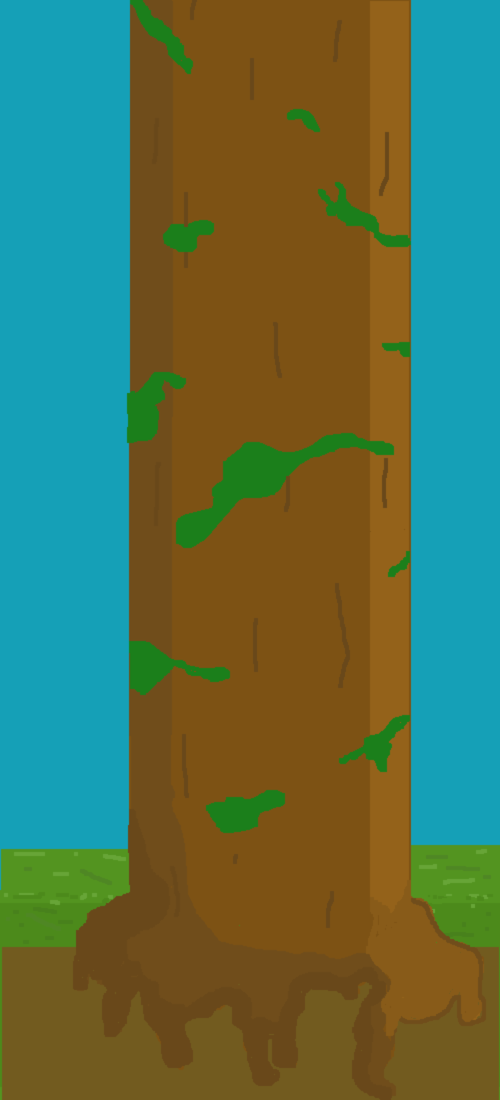
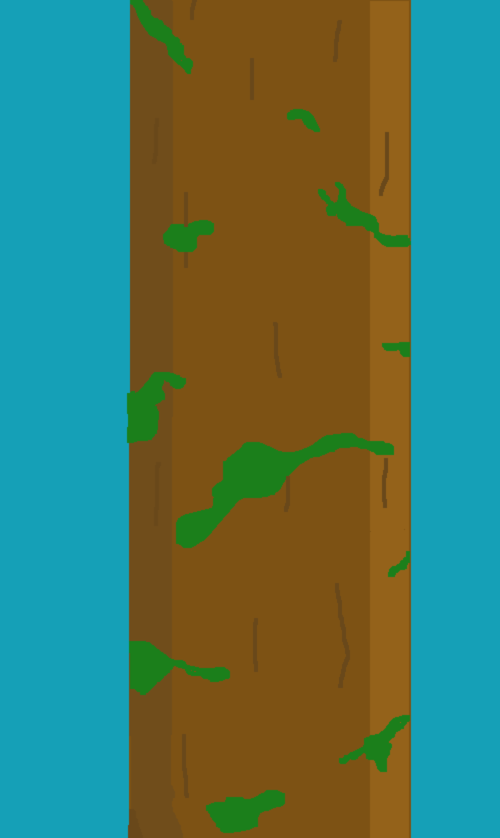
Añadí al niño, el suelo y algunas ramas. También rehice el movimiento

diff --git a/menuplay.py b/menuplay.py
@@ -1,110 +1,126 @@
 import pygame
 import constantes
-from personaje import Personaje
 
 def play():
-    while True:
+    # Inicializa Pygame
+    pygame.init()
 
-        #Declaro la variable pantalla con sus respectivos valores
-        pantalla = pygame.display.set_mode((constantes.anchoVentana, constantes.altoVentana))
+    # Configura la pantalla
+    pantalla = pygame.display.set_mode((constantes.anchoVentana, constantes.altoVentana))
+    pygame.display.set_caption('Hungry Jump')
 
-        #Declaro e inserto el icono
-        icono = pygame.image.load("assets/images/items/banana0.png")
-        pygame.display.set_icon(icono)
+    # Carga imágenes
+    icono = pygame.image.load("assets/images/items/banana0.png")
+    pygame.display.set_icon(icono)
+    fondo = pygame.image.load("assets/images/fondos/lvl 1.png").convert()
+    sueloPasto = pygame.image.load("assets/images/fondos/sueloPasto.png")
+    ramaD = pygame.image.load("assets/images/fondos/ramaDer.png")
+    ramaI = pygame.image.load("assets/images/fondos/ramaIzq.png")
 
-        #Declaro e inserto el fondo
-        fondo = pygame.image.load("assets/images/fondos/lvl 1.png").convert()
-        y = 0
+    # Redimensionar imágenes del personaje
+    ancho_personaje = 250
+    alto_personaje = 250  # Ajusta según sea necesario
+
+    quieto = pygame.image.load("assets/images/personajes/niño0.png")
+    quieto = pygame.transform.scale(quieto, (ancho_personaje, alto_personaje))
+
+    saltaDer = [pygame.image.load('assets/images/personajes/niño1.png') for _ in range(4)]
+    saltaDer = [pygame.transform.scale(img, (ancho_personaje, alto_personaje)) for img in saltaDer]
+
+    saltaIzq = [pygame.image.load('assets/images/personajes/niño1i.png') for _ in range(4)]
+    saltaIzq = [pygame.transform.scale(img, (ancho_personaje, alto_personaje)) for img in saltaIzq]
+
+    # Definir las variables de posicion
+    px = 0  # Posicion en el eje x
+    py = 470  # Posicion en el eje y
+
+    velocidad = 7
+    reloj = pygame.time.Clock()
+
+    # Variables de salto
+    salto = True
+    cuentaSalto = 20
+
+    # Variables de dirección
+    izquierda = False
+    derecha = False
+
+    # Pasos
+    cuentaPasos = 0
+
+    def recarga_pantalla():
+        nonlocal cuentaPasos, izquierda, derecha, px, py, saltaIzq, saltaDer, quieto
+
+        # Contador de pasos
+        cuentaPasos = (cuentaPasos + 1) % 4
+
+        # Movimiento a la izquierda
+        if izquierda:
+            pantalla.blit(saltaIzq[cuentaPasos], (int(px), int(py)))
+
+        # Movimiento a la derecha
+        elif derecha:
+            pantalla.blit(saltaDer[cuentaPasos], (int(px), int(py)))
+
+        # Personaje quieto
+        elif salto:
+            pantalla.blit(quieto, (int(px), int(py)))
+        else:
+            pantalla.blit(quieto, (int(px), int(py)))
+
+    run = True
+    y = 0
+
+    while run:
+        # Dibujar el fondo
+        yRelativa = y % fondo.get_rect().height
+        pantalla.blit(fondo, (0, yRelativa - fondo.get_rect().height))
+        if yRelativa < constantes.altoVentana:
+            pantalla.blit(fondo, (0, yRelativa))
+        y += 1
+
+        # Dibujar suelo y ramas
+        pantalla.blit(sueloPasto, (0, 360))
+        pantalla.blit(ramaD, (310, 430))
+        pantalla.blit(ramaI, (-10, 320))
+
+        # Verificar los eventos
+        for event in pygame.event.get():
+            if event.type == pygame.QUIT:
+                run = False
+
+        # Manejo de teclas
+        keys = pygame.key.get_pressed()
+
+        # Tecla LEFT - Movimiento a la izquierda
+        if keys[pygame.K_LEFT] and px > -70:  # Permite moverse más allá del borde izquierdo
+            px -= velocidad
+            izquierda = True
+            derecha = False
+
+        # Tecla RIGHT - Movimiento a la derecha
+        elif keys[pygame.K_RIGHT] and px < 310:  # Permite moverse más allá del borde derecho
+            px += velocidad
+            izquierda = False
+            derecha = True
+
+        # Personaje quieto
+        else:
+            izquierda = False
+            derecha = False
 
 
-        #controlar el frame rate
-        reloj = pygame.time.Clock()
+        # Llamada a la función para actualizar la pantalla
+        recarga_pantalla()
 
-        #Inserto un caption
-        pygame.display.set_caption('Hungry Jump')
+        # Actualizar la pantalla
+        pygame.display.update()
 
-        #Imagenes a escala
-        def escalar_img(image, scale):
-            w = image.get_width()
-            h = image.get_height()
-            nueva_imagen = pygame.transform.scale(image, (w*scale, h*scale))
-            return nueva_imagen
+        # Controlar el frame rate
+        reloj.tick(constantes.fps)
 
-        # Personaje
-        animacionX = []
-        for i in range (2):
-            img = pygame.image.load(f'assets/images/items/banana{i}.png')
-            img = escalar_img(img, constantes.escalaPersonaje)
-            animacionX.append(img)
+    # Salida del juego
+    pygame.quit()
 
-        salta = [pygame.image.load('assets/images/items/banana0.png'),
-                pygame.image.load('assets/images/items/banana0.png')]
-
-        jugador = Personaje(50, 50, animacionX)
-
-
-        #Definir las variables de movimiento del jugador
-        # Posición y tamaño del personaje
-        px = 400
-        py = 500
-        ancho = 10
-
-        # Variables de salto
-        salto = True  # El personaje está saltando al principio
-        cuentaSalto = 20  # Aumentamos este valor para controlar la altura del salto
-
-        # Variables de dirección
-        izquierda = False
-        derecha = False
-        cuentaPasos = 0
-
-        run = True
-        #Ciclo infinito
-        while run == True:
-
-            # Rellenar la pantalla de negro antes de dibujar cualquier cosa
-            pantalla.fill(constantes.negro)
-
-            #Calcular el movimiento del jugador
-            delta_x = 0
-            delta_y = 0
-
-            if izquierda == True:
-                delta_x = -constantes.velocidad
-            if derecha == True:
-                delta_x = constantes.velocidad
-
-            # Mover al jugador
-            jugador.movimiento(delta_x, delta_y)
-            jugador.update()
-
-            # Dibujar el fondo después de rellenar la pantalla de negro si aún lo quieres visible
-            yRelativa = y % fondo.get_rect().height
-            pantalla.blit(fondo, (0, yRelativa - fondo.get_rect().height))
-            if yRelativa < constantes.altoVentana:
-                pantalla.blit(fondo, (0, yRelativa))
-            y += 1
-
-            # Dibujar al jugador por encima del fondo
-            jugador.dibujar(pantalla)
-
-            # Verificar los eventos
-            for event in pygame.event.get():
-                if event.type == pygame.QUIT:
-                    run = False
-
-                if event.type == pygame.KEYDOWN:
-                    if event.key == pygame.K_LEFT:
-                        izquierda = True
-                    if event.key == pygame.K_RIGHT:
-                        derecha = True
-
-                if event.type == pygame.KEYUP:
-                    if event.key == pygame.K_LEFT:
-                        izquierda = False
-                    if event.key == pygame.K_RIGHT:
-                        derecha = False
-
-            # Actualizar la pantalla
-            pygame.display.update()
-            reloj.tick(constantes.fps)
+if __name__ == "__main__":
+    play()

diff --git a/starter.py b/starter.py
@@ -11,23 +11,26 @@ from personaje import Personaje
 #Inicializo pygame
 pygame.init()
 
+#Creo y seteo valores a la pantalla
 pantalla = pygame.display.set_mode((500, 750))
-pygame.display.set_caption("Hungry Jump")
+pygame.display.set_caption("Hungry Jump") #Titulo de la ventana
 
-#Declaro e inserto el icono
+#Declaro e inserto el icono de la ventana
 icono = pygame.image.load("assets/images/items/banana0.png")
 pygame.display.set_icon(icono)
 
+#Fondo del menu
 menuBg = pygame.image.load("assets/images/fondos/menuBg.png")
 
-
+#Fuente
 def get_font(size):
     return pygame.font.Font("assets/Font/font.ttf", size)
 
+#Función de la pantalla play
 def jugar():
-    menuplay.play()
+    menuplay.play() #mando llamar la funcion play del archivo menuplay
 
-    
+#Función de la pantalla opciones    
 def options():
     while True:
         OPTIONS_MOUSE_POS = pygame.mouse.get_pos()
@@ -54,6 +57,7 @@ def options():
 
         pygame.display.update()
 
+#Funcion del menu principal
 def main_menu():
     # Variables para el desplazamiento del fondo
     x = 0  # Posición inicial del fondo
@@ -61,7 +65,7 @@ def main_menu():
 
     # Carga la imagen con el nombre del juego
     titulo = pygame.image.load("assets/images/menu/Título.png")
-    tituloS = pygame.transform.scale(titulo, (int(titulo.get_width() * 0.4), int(titulo.get_height() * 0.4)))  #Escala al 50%
+    tituloS = pygame.transform.scale(titulo, (int(titulo.get_width() * 0.4), int(titulo.get_height() * 0.4)))  #Escala al 40%
     tituloPos = (45, 200)  # Posición en la pantalla
 
     while True:

diff --git a/constantes.py b/constantes.py
@@ -6,7 +6,7 @@ altoPersonaje = 20
 
 fps = 90
 velocidad = 10
-escalaPersonaje = 0.5
+escalaPersonaje = 0.15
 
 #Declaro colores
 blanco = (255,255,255)
